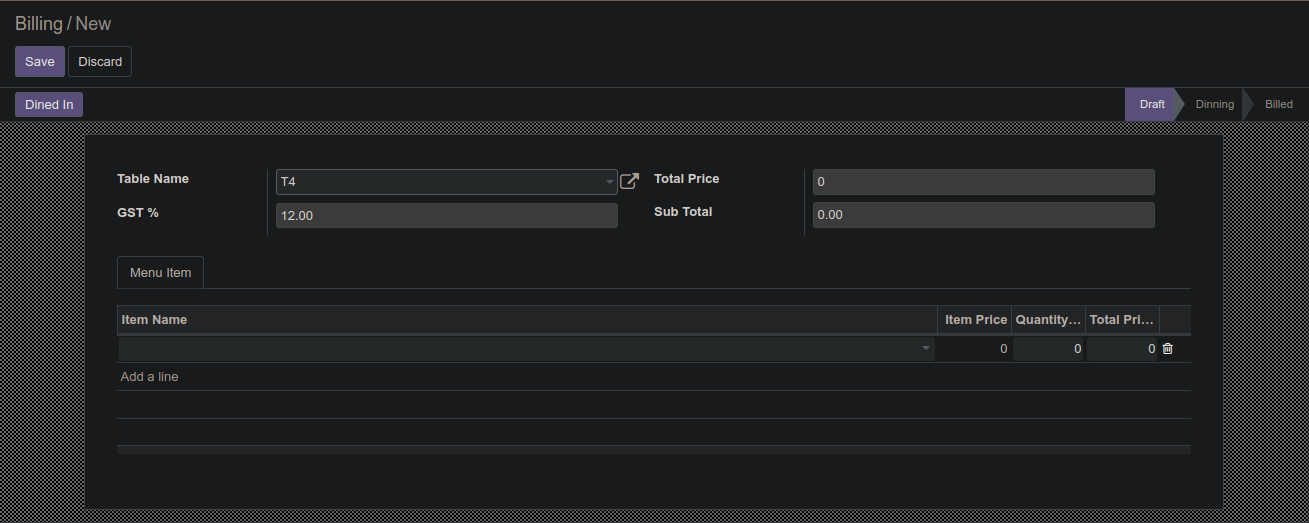
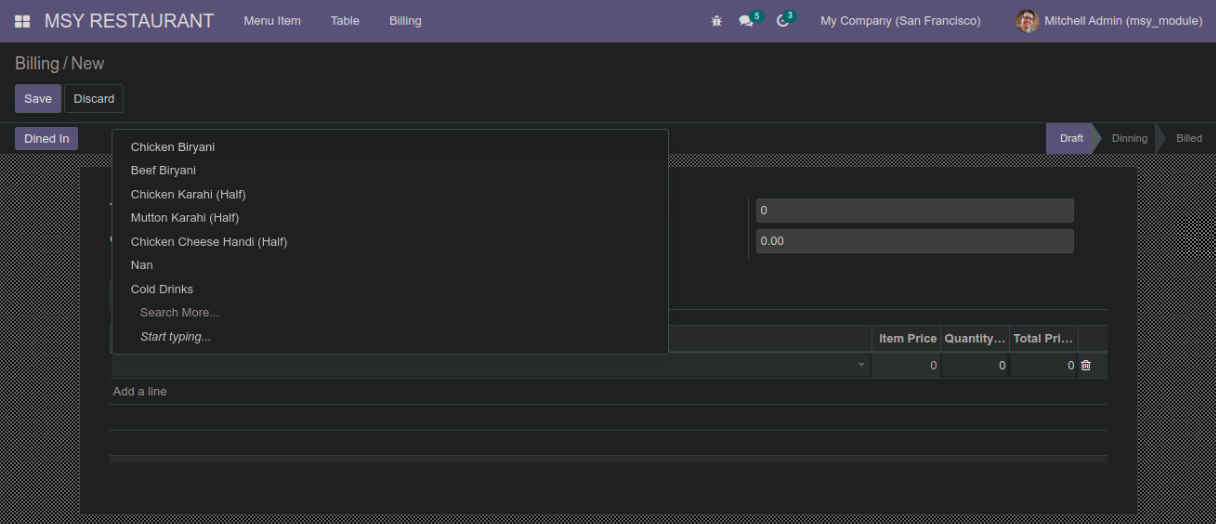
msy restaurant module

Changed region(s): [[0.0, 0.0, 1.0, 1.0], [0.0938, 0.7954, 0.9062, 0.826], [0.0938, 0.7036, 0.1562, 0.7648]]

diff --git a/README.md b/README.md
@@ -29,8 +29,23 @@ By Clicking on Billing
 <img src="static/img/billing_view.png">
 
 ## How To Create Billing
+SELECT TABLE FROM TABLE DROP DOWN
 
 Open Billing Menu --> Create
+Click on Add line at bottom line
+You will se the list of menu
 <img src="static/img/first_bill.png">
+Item price will come automatically 
 
+Add Quantity And then total price will automatically calculated
 
+After menu is added click on dine in Button so that table will shift to Occupied and will not visible for selection.
+
+When You want to complete bill 
+
+<img src="static/img/bill_second.png">
+
+Click on Billed Button
+Then Table will move to unoccupied state and will be avaliable for selection and bill will be printed.
+
+<img src="static/img/pdfbilled.png">
